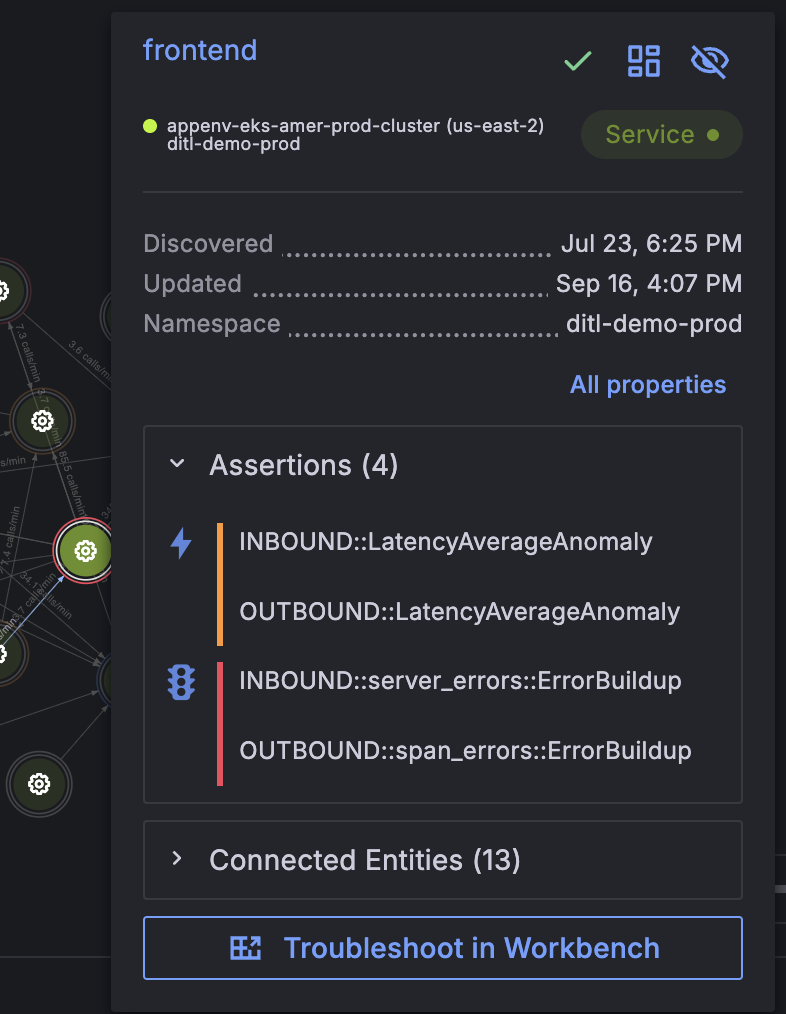
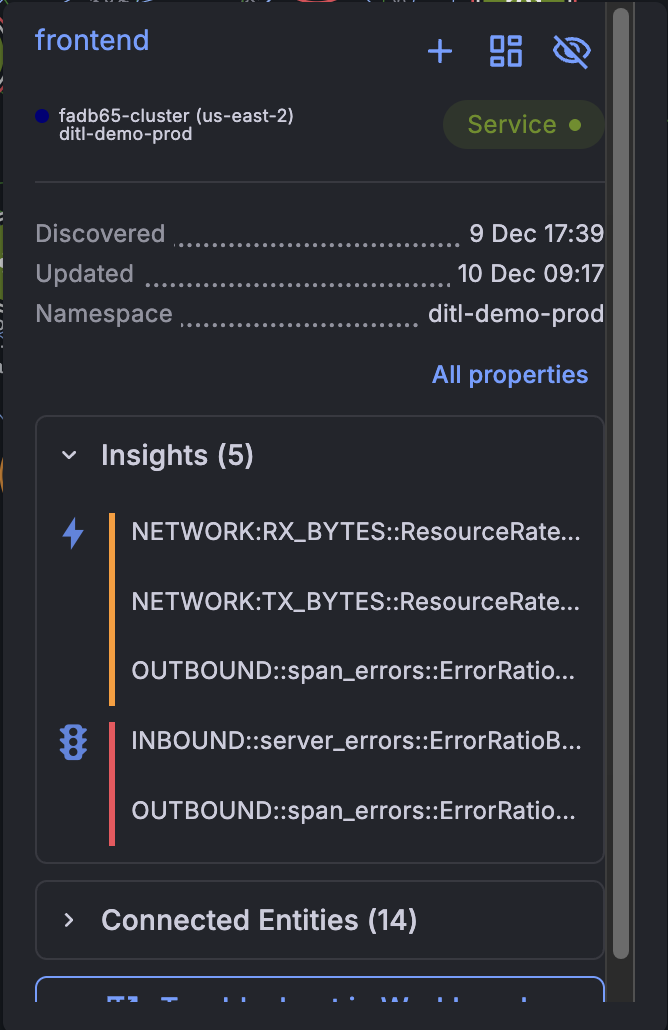
Update 1.1-knowledge-graph.md (#23)
* Update 1.1-knowledge-graph.md

* Remove reference to ErrorBuildUp Insight

* Rename assertion to insight

diff --git a/breakout_2_RCA-with-Knowledge-Graph/breakout_2_answers/1.6-knowledge-graph.md b/breakout_2_RCA-with-Knowledge-Graph/breakout_2_answers/1.6-knowledge-graph.md
@@ -1,5 +1,5 @@
 ## Knowledge Graph
-Q: Which service started having errors first in the context of the last 24 hours? 
+Q: Which service started having errors first in the context of the last 24 hours?
 
 A: `productcatalogservice`, however in some views you may see that `productcatalog-postgres` was impacted first instead. The order of these two is fickle because they both error at similar times and it depends on when the metric is scrapped to indicate the exact order. There is the occasional scenario where the `frontend` service fires an anomaly insight first, this is as it might take a minute or two for the feature flag insight to fire depending on a range of factors in the demo environment.
 
@@ -12,5 +12,5 @@ To find this:
     ![allentities](/images/breakout_2/1.6-knowledge-graph.png)
 1. The exact order of insights here may change in your workshop breakout depending on a few events but the insights will stay the same. A few of the outcomes are:
     - The productcatalog-postgres throws `PostgresSQLHighConnections` failure insights along with a few anomaly insights
-    - The productcatalogservice service throws `ErrorBuildup` and `ErrorRatioBreach` error insights on its `oteldemo.ProductCatalogService/ListProducts` endpoint as well a `KubePodCrashLooping` failure insights
-    - The frontend service has a number of anomalies as well as `ErrorBuildup` and `ErrorRatioBreach` error insights - this is as all requests go through the frontend services as it's an API gateway. If a downstream service is having an issue, it will often propagate up to the frontend service. We can see that the frontend service also complains that the recommendation service is having an issue. This isn't shown at the moment because we clicked the `Add potential causes` button on the productcatalogservice which doesn't call the recommendation service. Go back to the Timeline view (Summary is read only) and click `Add potential causes` on the frontend service. This will add a few more services like the recommendation service.
+    - The productcatalogservice service throws `ErrorRatioBreach` error insights on its `oteldemo.ProductCatalogService/ListProducts` endpoint as well a `KubePodCrashLooping` failure insights
+    - The frontend service has a number of anomalies as well as `ErrorRatioBreach` error insights - this is as all requests go through the frontend services as it's an API gateway. If a downstream service is having an issue, it will often propagate up to the frontend service. We can see that the frontend service also complains that the recommendation service is having an issue. This isn't shown at the moment because we clicked the `Add potential causes` button on the productcatalogservice which doesn't call the recommendation service. Go back to the Timeline view (Summary is read only) and click `Add potential causes` on the frontend service. This will add a few more services like the recommendation service.

diff --git a/breakout_2_RCA-with-Knowledge-Graph/breakout_2_answers/2.3-knowledge-graph.md b/breakout_2_RCA-with-Knowledge-Graph/breakout_2_answers/2.3-knowledge-graph.md
@@ -2,7 +2,7 @@
 Q:  What error message is the productcatalog service throwing when it errors in the last 24 hours?
 
 A: There are a few answers to this depending on how you decide to find the answer
-- Traces Approach: 
+- Traces Approach:
   - `pq: sorry, too many clients already`
 - Logs Approach
   - `panic: runtime error: invalid memory address or nil pointer dereference`
@@ -11,13 +11,13 @@ A: There are a few answers to this depending on how you decide to find the answe
 There are a few ways to find this but we are keen to show you the context driven RCA workbench here
 - Open RCA Workbench with `productcatalogservice` and add connected services. For guidance on how to do this [see this guidance](./1.5-knowledge-graph.md)
 - Click on the summary tab as it's easier to read, but you can also do the same steps in timeline if you'd rather
-- Hover over the red bar of the `oteldemo.ProductCatalogService/ListProducts - ErrorRatioBreach` assertion
+- Hover over the red bar of the `oteldemo.ProductCatalogService/ListProducts - ErrorRatioBreach` insight
 ![allentities](/images/breakout_2/2.3-knowledge-graph-1.png)
-- Click on Logs - This takes you to Logs tab of the KPI Drawer at the timeframe of that assertion and shows all error messages. As you can see we have two `pq: sorry, too many clients already` and `panic: runtime error: invalid memory address or nil pointer dereference`
+- Click on Logs - This takes you to Logs tab of the KPI Drawer at the timeframe of that insight and shows all error messages. As you can see we have two `pq: sorry, too many clients already` and `panic: runtime error: invalid memory address or nil pointer dereference`
 ![allentities](/images/breakout_2/2.3-knowledge-graph-2.png)
 - Close the KPI Drawer
-- Hover over the red bar of the `oteldemo.ProductCatalogService/ListProducts - ErrorRatioBreach` assertion again
-- Click Traces - This takes you to the Traces tab of the KPI drawer at the timeframe of that assertion, then select the error radio button to show all errored traces
+- Hover over the red bar of the `oteldemo.ProductCatalogService/ListProducts - ErrorRatioBreach` insight again
+- Click Traces - This takes you to the Traces tab of the KPI drawer at the timeframe of that insight, then select the error radio button to show all errored traces
 ![allentities](/images/breakout_2/2.3-knowledge-graph-3.png)
 - Click on any trace
 - Click on the productcatalogservice span with a red circle next to it

diff --git a/breakout_2_RCA-with-Knowledge-Graph/breakout_2_answers/1.1-knowledge-graph.md b/breakout_2_RCA-with-Knowledge-Graph/breakout_2_answers/1.1-knowledge-graph.md
@@ -1,18 +1,18 @@
 ## Knowledge Graph
 Q: Over the last 24 hours which service looks to be in the worst state? Why?
 
-A: `frontend` service because it has more assertions firing than the other services. This is as the frontend service is an API gateway. All services' traffic/requests go through it and therefore errors propagate upwards to it triggering assertions. It has the following:
+A: `frontend` service because it has more insights firing than the other services. This is as the frontend service is an API gateway. All services' traffic/requests go through it and therefore errors propagate upwards to it triggering insights. It has the following:
 - Errors/Anomalies:
     - INBOUND:LatencyAverageAnomaly
-    - INBOUND:span_errors::ErrorBuildup
+    - INBOUND:span_errors::ErrorRatioBreach
     - OUTBOUND:LatencyAverageAnomaly
-    - OUTBOUND:span_errors::ErrorBuildup
+    - OUTBOUND:span_errors::ErrorRatioBreach
 
 To find this:
-1. Open Entity Explorer and look at the list of services on the left ordered by `Assertions`. This shows the entity in the worst state. 
+1. Open Entity Explorer and look at the list of services on the left ordered by `insights`. This shows the entity in the worst state.
 
     ![allentities](/images/breakout_2/1.1-knowledge-graph-1.png)
 
-1. You can then hover over the entity to see its assertions
+1. You can then hover over the entity to see its insights
 
     ![allentities](/images/breakout_2/1.1-knowledge-graph-2.png)

diff --git a/breakout_2_RCA-with-Knowledge-Graph/breakout_2_answers/2.2-knowledge-graph.md b/breakout_2_RCA-with-Knowledge-Graph/breakout_2_answers/2.2-knowledge-graph.md
@@ -6,5 +6,5 @@ A: Between 15% and 40%
 To find this:
 - Either use the search bar to show the `productcatalogservice` service or open the Entity Explorer, use `Show all services` and use the filter on the top right to highlight `productcatalogservice`
 - Open the KPI drawer
-- Click on the Application Observability tab
+- Click on the Service Overview tab
 - Look at the `Errors` panel and see how high that spike gets
